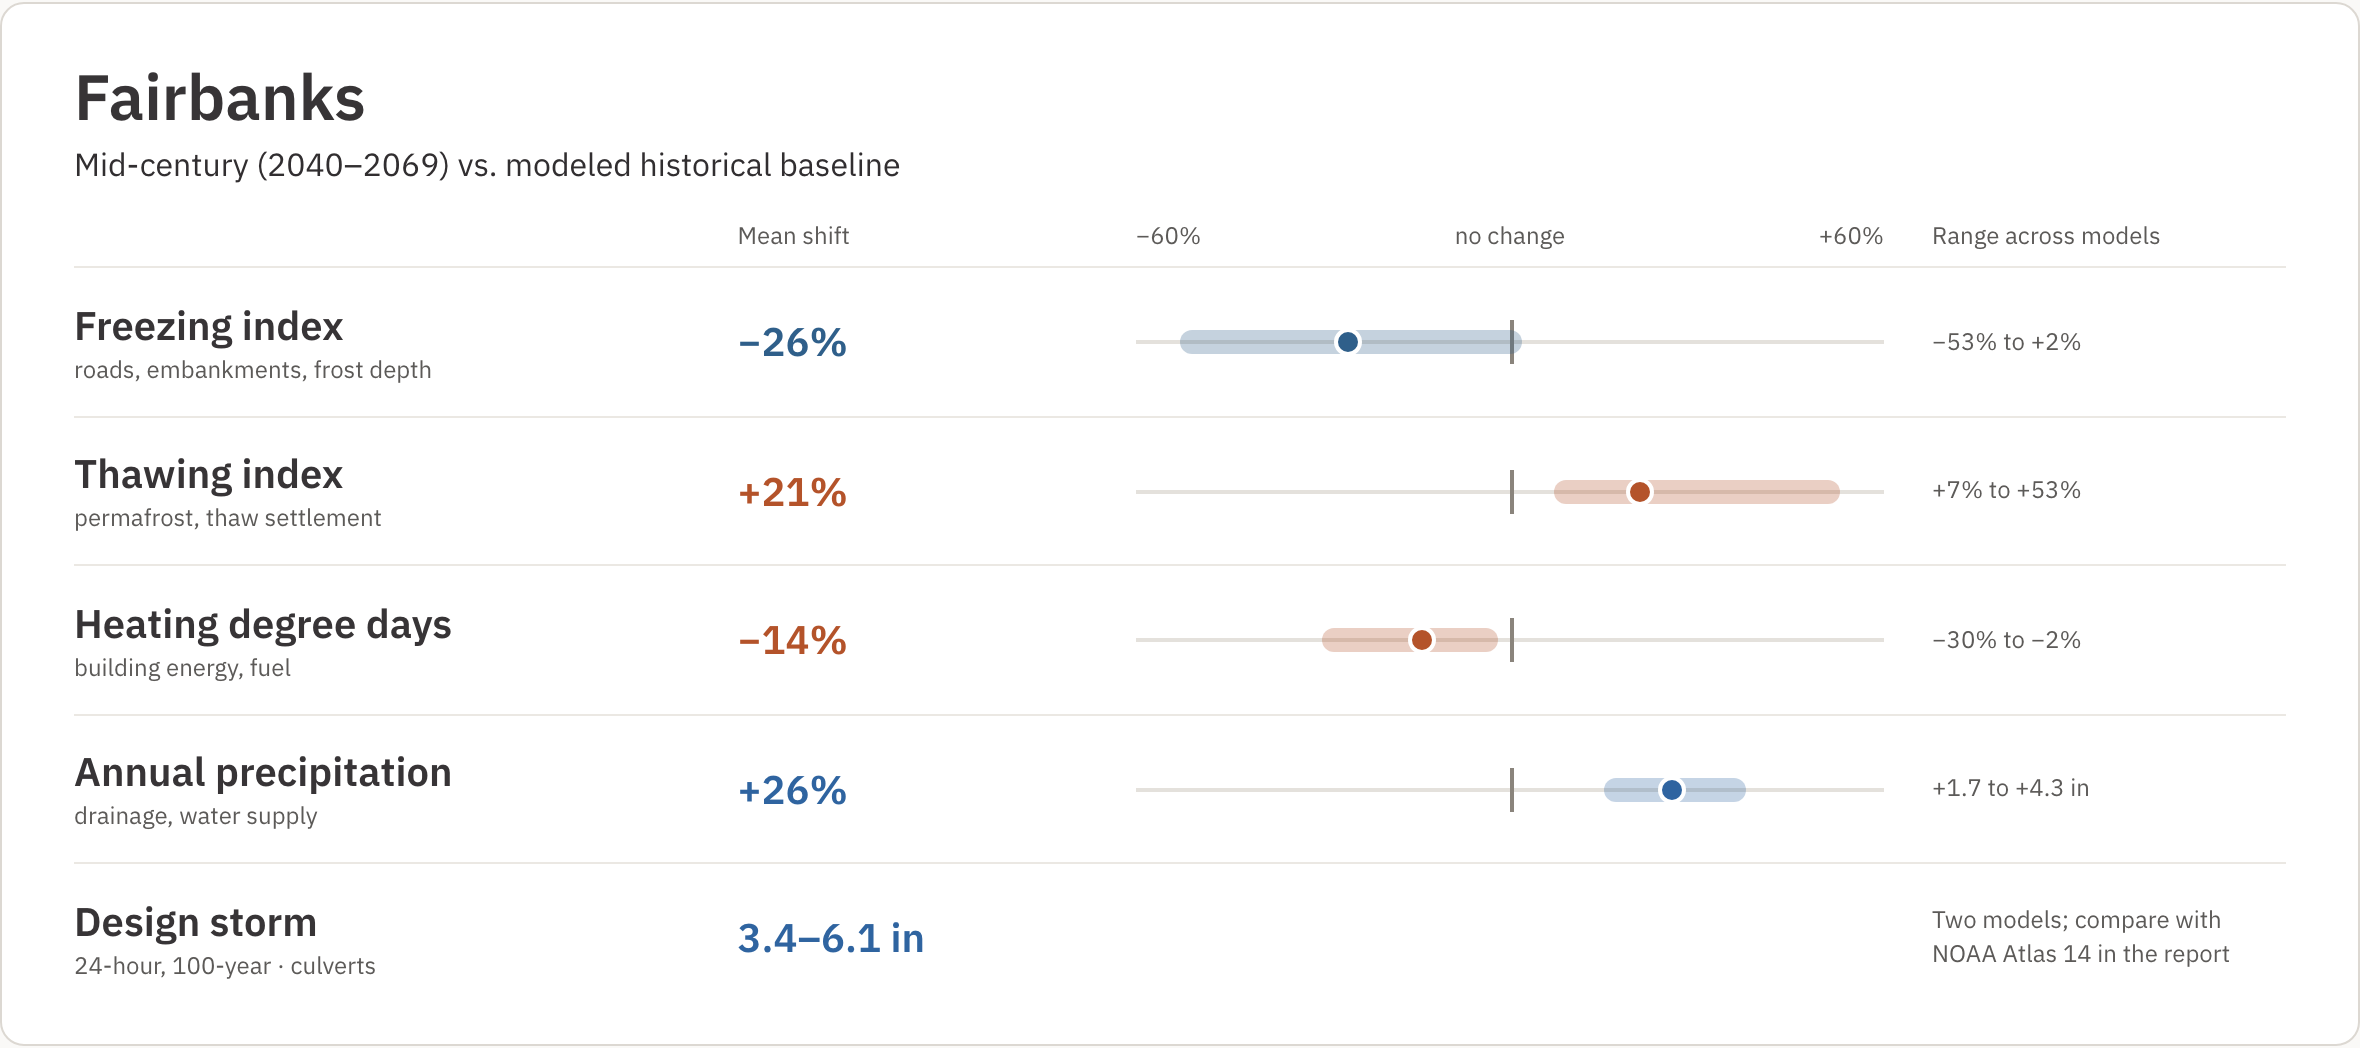
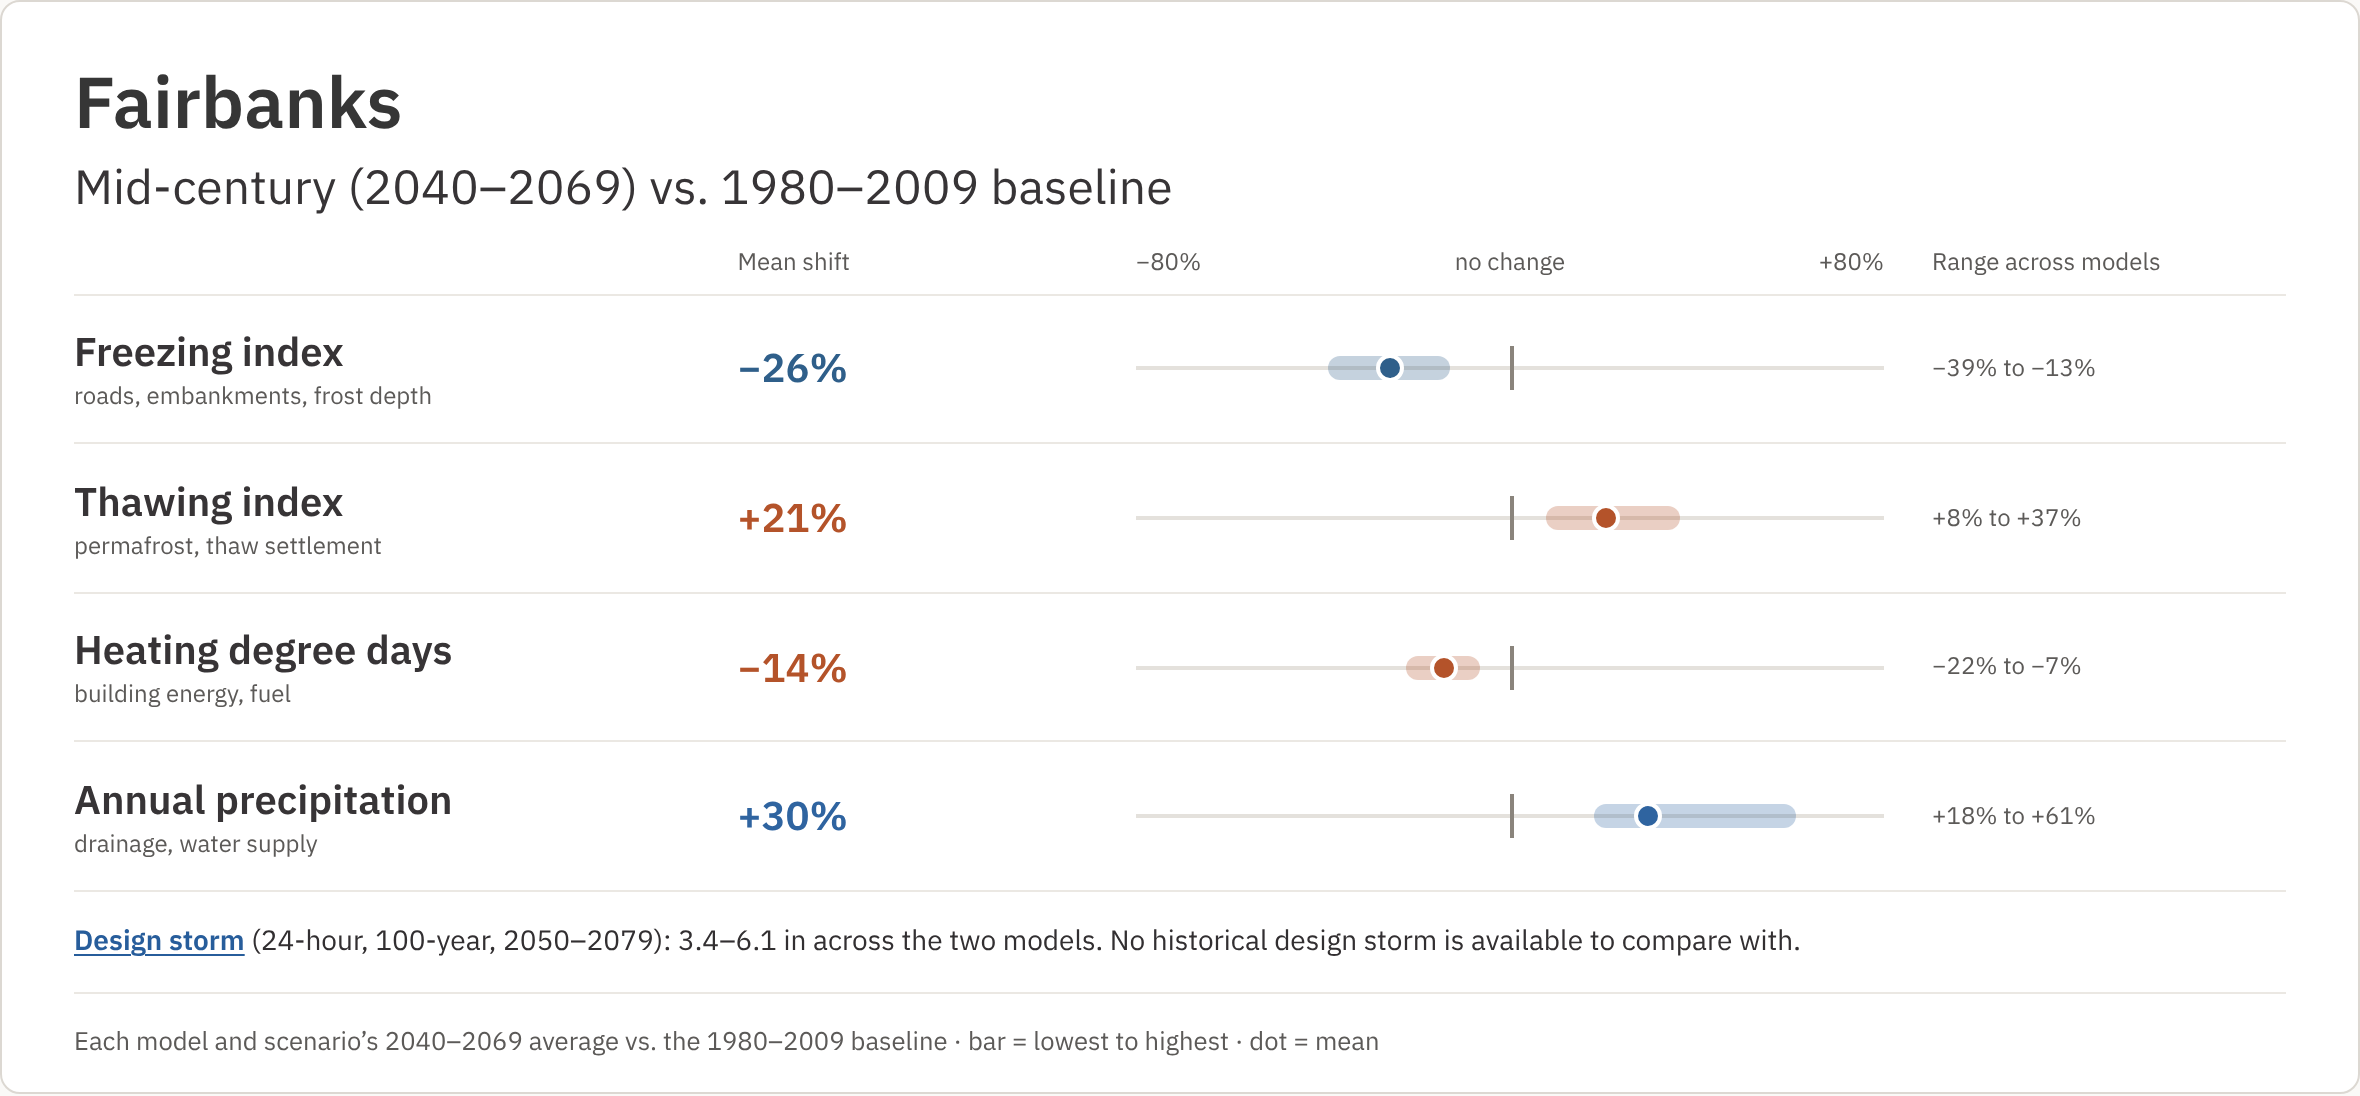
Retake the home page's sample report picture
The picture now shows the report summary's current method: each row's
range is the spread of model and scenario means against the 1980-2009
baseline, and the design storm sits under the table. Values come from
the Fairbanks mock data with real model_means. The alt text, image
height and comments follow.

Claude-Session: https://claude.ai/code/session_014SUJnJjBvUfhDoAB8mrBH4

diff --git a/app/components/home/SampleReport.vue b/app/components/home/SampleReport.vue
@@ -16,8 +16,8 @@
     <!--
       A picture of a report summary, not live data: it fades out and is
       labelled as a sample so it doesn't read as a working tool. The image is
-      a screenshot of the Fairbanks example the home page used to render
-      (see git history for ShiftExample.vue).
+      a screenshot of the Fairbanks report's summary (report/ReportSummary.vue)
+      at 1180px wide and 2x, with "Fairbanks" in place of its "Summary" label.
     -->
     <p class="has-text-right mb-2" aria-hidden="true">
       <span
@@ -29,9 +29,9 @@
       <img
         :src="sampleReportImage"
         width="2360"
-        height="1044"
+        height="1096"
         loading="lazy"
-        alt="Sample report summary for Fairbanks, mid-century versus the historical baseline: freezing index down 26%, thawing index up 21%, heating degree days down 14% and annual precipitation up 26%, each with its range across models, and a 24-hour, 100-year design storm of 3.4 to 6.1 inches."
+        alt="Sample report summary for Fairbanks, mid-century versus the 1980 to 2009 baseline: freezing index down 26% (models range from down 39% to down 13%), thawing index up 21% (up 8% to up 37%), heating degree days down 14% (down 22% to down 7%) and annual precipitation up 30% (up 18% to up 61%), and a 24-hour, 100-year design storm of 3.4 to 6.1 inches."
       />
     </figure>
 

diff --git a/app/data/home.js b/app/data/home.js
@@ -17,7 +17,7 @@ export const placeAliases = {
 
 // The site pictured in assets/images/sample-report.png. Its values are from
 // the /eds/all response that app/assets/mock.json captures (mid-century vs.
-// the modeled baseline); retake the picture if those change.
+// the 1980–2009 baseline); retake the picture if those change.
 export const exampleSite = {
   name: 'Fairbanks',
   // The point report, so the full report shows the same grid cells.
